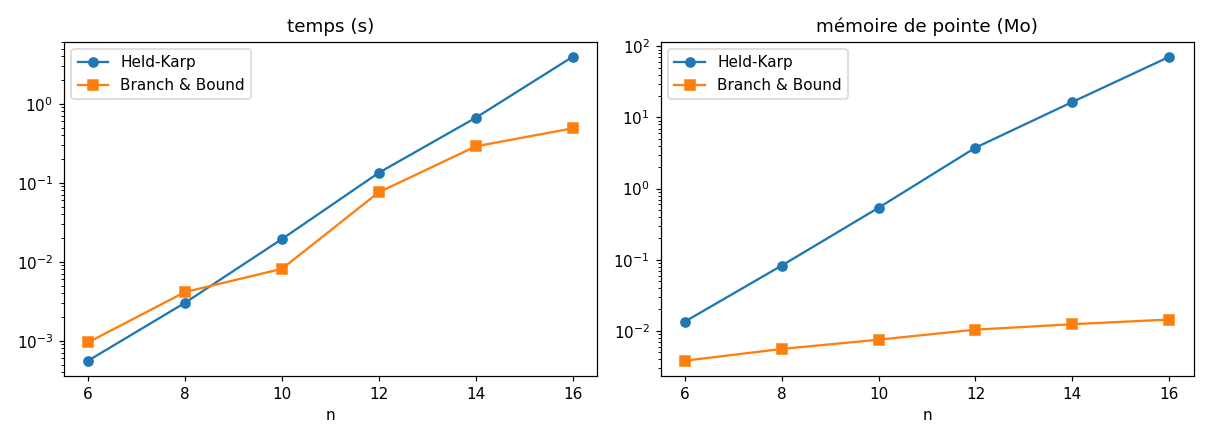
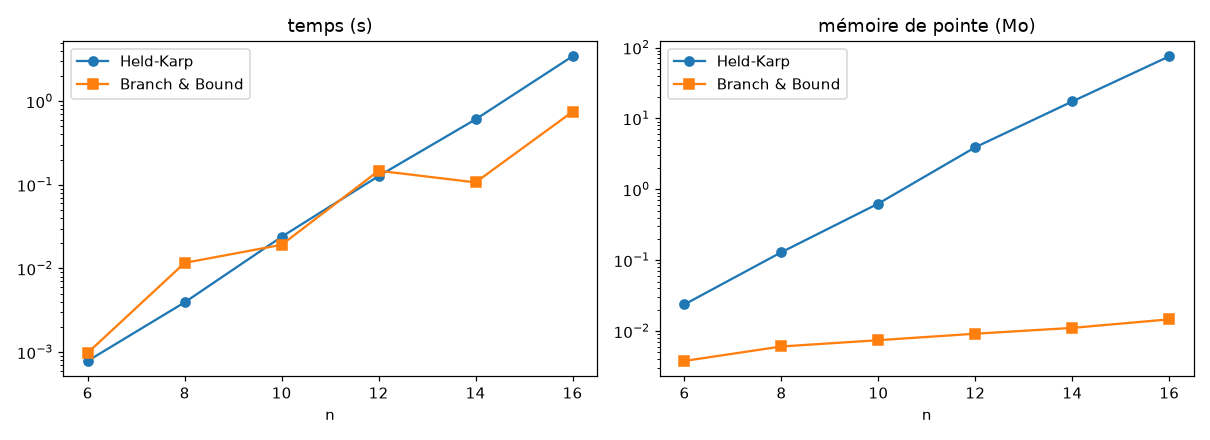
WIP adding journal bonus

diff --git a/journal_bonus.md b/journal_bonus.md
@@ -1,0 +1,19 @@
+# Journal d'expériences — Médina 2.0
+
+Graine G = 9064  ·  k = 63
+
+> Tableaux et courbes générés automatiquement par `experiences.py`. Voir `ANALYSES.md` pour les interprétations.
+
+## Bonus — Branch and Bound vs Held-Karp
+
+| n | HK temps (ms) | HK mémoire (Mo) | B&B temps (ms) | B&B mémoire (Mo) | B&B nœuds | HK états |
+|---|---|---|---|---|---|---|
+| 6 | 0.8 | 0.02 | 1.0 | 0.004 | 56 | 80 |
+| 8 | 3.9 | 0.13 | 11.7 | 0.006 | 563 | 448 |
+| 10 | 23.9 | 0.63 | 19.2 | 0.007 | 823 | 2304 |
+| 12 | 127.3 | 3.92 | 147.3 | 0.009 | 5881 | 11264 |
+| 14 | 606.6 | 17.34 | 106.9 | 0.011 | 3982 | 53248 |
+| 16 | 3443.4 | 75.19 | 747.8 | 0.015 | 21169 | 245760 |
+
+![bonus](figures/bonus.png)
+
